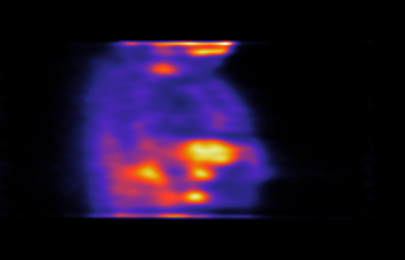
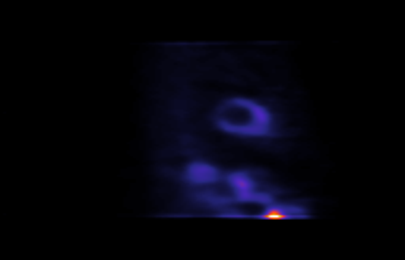
Added z rotation

diff --git a/model.py b/model.py
@@ -5,6 +5,8 @@ from scipy.spatial.transform import Rotation as R
 from scipy.ndimage import map_coordinates
 from pickle import load
 
+APEX_VERSOR_Z_ROT_ANGLE = -10 #Adjustment angle in degrees for rotating BA apex vector with respect to z axis. 
+
 class Model:
     """Encapsulates the logic and operations necessary for loading,
     reorientating and generating slices of a cardiac nifty study in
@@ -42,9 +44,15 @@ class Model:
         mitral_valve = self.m_valve
         apex = self.apex
         rv_center = self.rv
+        #Z rotation matrix
+        angle = (APEX_VERSOR_Z_ROT_ANGLE*np.pi)/180
+        z_rot_mat = np.array([[np.cos(angle),-np.sin(angle),0],
+                              [np.sin(angle),np.cos(angle),0],
+                              [0,0,1]])
         # Compute the vector from mitral valve to apex
         apex_vector = np.array(apex) - np.array(mitral_valve)
-        apex_vector = apex_vector / np.linalg.norm(apex_vector)  # Normalize the vector
+        rotated_apex = np.matmul(z_rot_mat, apex_vector)
+        apex_vector = rotated_apex / np.linalg.norm(rotated_apex)  # Normalize the vector
         
         # Compute the vector from mitral valve to RV center
         rv_vector = np.array(rv_center) - np.array(mitral_valve)
